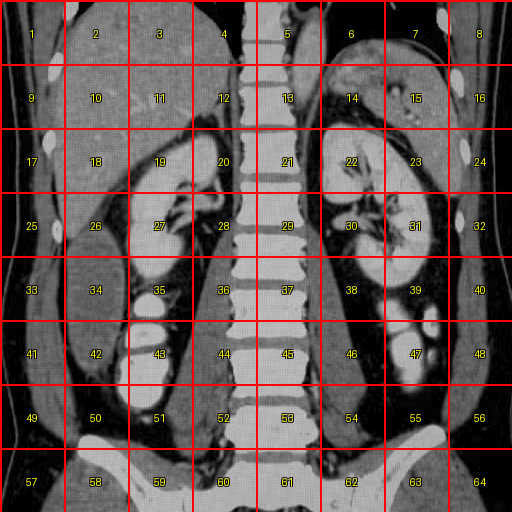
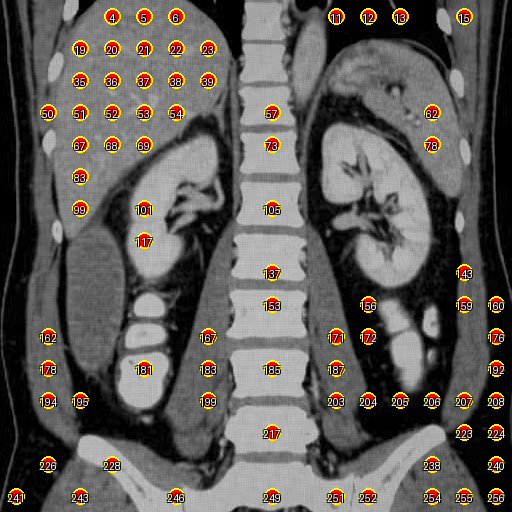
update

diff --git a/patch_image.py b/patch_image.py
@@ -2,7 +2,7 @@ import cv2
 import numpy as np
 from PIL import Image, ImageDraw, ImageFont
 
-def create_patch_image(input_image_path, output_image_path='image_with_patches.png', patch_size=64):
+def create_patch_image_v1(input_image_path, output_image_path='image_with_patches.png', patch_size=64):
     """
     Divide an image into patches and draw grid lines with patch numbers.
 
@@ -77,5 +77,104 @@ def create_patch_image(input_image_path, output_image_path='image_with_patches.p
 
     return output_image_path
 
+def create_patch_image_v2(input_image_path, output_image_path='image_with_points.png', patch_size=32, gradient_threshold=45):
+    """
+    Place points at patch centers and filter out points in high-gradient (non-flat) areas.
+
+    Args:
+        input_image_path: Path to the input image
+        output_image_path: Path to save the output image with points
+        patch_size: Size of each patch (default: 64)
+        gradient_threshold: Threshold for gradient magnitude. Points with gradient above this are dropped (default: 100)
+
+    Returns:
+        valid_points: List of (x, y, point_number) tuples for points in flat areas
+        output_image_path: Path to the saved image
+    """
+    # Load the image
+    img = cv2.imread(input_image_path, cv2.IMREAD_GRAYSCALE)
+    height, width = img.shape
+
+    # Calculate Sobel gradients
+    grad_x = cv2.Sobel(img, cv2.CV_64F, 1, 0, ksize=3)
+    grad_y = cv2.Sobel(img, cv2.CV_64F, 0, 1, ksize=3)
+    gradient_magnitude = np.sqrt(grad_x**2 + grad_y**2)
+
+    # Calculate patch dimensions
+    patches_per_row = width // patch_size
+    patches_per_col = height // patch_size
+
+    # Place points at patch centers and filter based on gradient
+    valid_points = []
+    point_num = 1
+
+    for row in range(patches_per_col):
+        for col in range(patches_per_row):
+            # Calculate center of patch
+            x = col * patch_size + patch_size // 2
+            y = row * patch_size + patch_size // 2
+
+            # Check gradient in a small neighborhood around the point
+            neighborhood_size = 15
+            y_start = max(0, y - neighborhood_size)
+            y_end = min(height, y + neighborhood_size + 1)
+            x_start = max(0, x - neighborhood_size)
+            x_end = min(width, x + neighborhood_size + 1)
+
+            local_gradient = gradient_magnitude[y_start:y_end, x_start:x_end]
+            avg_gradient = np.mean(local_gradient)
+
+            # Keep point if gradient is below threshold (flat area)
+            if avg_gradient < gradient_threshold:
+                valid_points.append((x, y, point_num))
+
+            point_num += 1
+
+    # Convert to PIL for drawing
+    img_pil = Image.fromarray(img).convert('RGB')
+    draw = ImageDraw.Draw(img_pil)
+
+    # Try to use a font, fall back to default if unavailable
+    try:
+        font = ImageFont.truetype("/usr/share/fonts/dejavu/DejaVuSansMono-Bold.ttf", 16)
+    except:
+        try:
+            font = ImageFont.truetype("/usr/share/fonts/google-droid/DroidSans-Bold.ttf", 16)
+        except:
+            font = ImageFont.load_default()
+
+    # Draw valid points
+    for x, y, num in valid_points:
+        # Draw a circle at the point
+        radius = 8
+        draw.ellipse([(x-radius, y-radius), (x+radius, y+radius)], fill='red', outline='yellow', width=2)
+
+        # Draw the number
+        text = str(num)
+        bbox = draw.textbbox((0, 0), text, font=font)
+        text_width = bbox[2] - bbox[0]
+        text_height = bbox[3] - bbox[1]
+
+        # Center the text
+        text_x = x - text_width // 2
+        text_y = y - text_height // 2
+
+        # Draw text with outline for visibility
+        draw.text((text_x-1, text_y-1), text, fill='black', font=font)
+        draw.text((text_x+1, text_y-1), text, fill='black', font=font)
+        draw.text((text_x-1, text_y+1), text, fill='black', font=font)
+        draw.text((text_x+1, text_y+1), text, fill='black', font=font)
+        draw.text((text_x, text_y), text, fill='white', font=font)
+
+    # Save the result
+    img_pil.save(output_image_path)
+    total_points = patches_per_row * patches_per_col
+    print(f"Placed {len(valid_points)} valid points out of {total_points} total points")
+    print(f"Gradient threshold: {gradient_threshold}")
+    print(f"Output saved to: {output_image_path}")
+
+    return valid_points, output_image_path
+
+
 if __name__ == "__main__":
-    create_patch_image('image.png')
+    create_patch_image_v2('image.png')

diff --git a/main.py b/main.py
@@ -5,7 +5,7 @@ Main pipeline for medical image segmentation using ChatGPT patch selection and S
 
 import os
 from PIL import Image
-from patch_image import create_patch_image
+from patch_image import create_patch_image_v1, create_patch_image_v2
 from chatgpt_controller import call_chatgpt_for_patches, chatgpt_supervise
 from png_to_jpg import convert_png_to_jpg
 from image_predictor import patches_to_points, predict_mask
@@ -15,7 +15,7 @@ def run_segmentation_pipeline(
     image_path,
     target_structure,
     api_key=None,
-    patch_size=64,
+    patch_size=32,
     sam2_checkpoint="./sam2/checkpoints/sam2.1_hiera_large.pt",
     model_cfg="configs/sam2.1/sam2.1_hiera_l.yaml"
 ):
@@ -40,16 +40,18 @@ def run_segmentation_pipeline(
 
     # Step 1: Create patch image with grid
     print("Step 1: Creating patch image with grid...")
-    patch_image_path = create_patch_image(image_path, 'image_with_patches.png', patch_size)
+    valid_points, patch_image_path = create_patch_image_v2(image_path, 'image_with_patches.png', patch_size)
     print()
 
     # Step 2: Call ChatGPT to select patches
     print("Step 2: Calling ChatGPT to select patches...")
+    model = "gpt-5"
     positive_patches, negative_patches = call_chatgpt_for_patches(
         image_path,
         patch_image_path,
         target_structure,
-        api_key=api_key
+        api_key=api_key,
+        model=model
     )
     print(f"Positive patches: {positive_patches}")
     print(f"Negative patches: {negative_patches}\n")
@@ -85,6 +87,61 @@ def run_segmentation_pipeline(
 
     return masks, scores, logits
 
+    # # Step 6: Save masked image for supervision
+    # print("\nStep 6: Creating masked image for supervision...")
+    # import numpy as np
+    # masked_img = Image.open(jpg_path).convert('RGB')
+    # masked_array = np.array(masked_img)
+
+    # # Overlay the best mask (highest score)
+    # best_mask = masks[0]  # SAM2 returns masks sorted by score
+    # mask_overlay = np.zeros_like(masked_array)
+    # mask_overlay[best_mask > 0] = [255, 0, 0]  # Red overlay
+
+    # # Blend the mask with the original image
+    # alpha = 0.5
+    # masked_array = (masked_array * (1 - alpha) + mask_overlay * alpha).astype(np.uint8)
+    # masked_img_result = Image.fromarray(masked_array)
+
+    # masked_image_path = jpg_path.replace('.jpg', '_masked.jpg')
+    # masked_img_result.save(masked_image_path)
+    # print(f"Saved masked image to: {masked_image_path}\n")
+
+    # # Step 7: Supervise results with ChatGPT
+    # print("Step 7: Supervising segmentation results with ChatGPT...")
+    # refined_positive_patches, refined_negative_patches = chatgpt_supervise(
+    #     masked_image_path,
+    #     jpg_path,
+    #     patch_image_path,
+    #     api_key=api_key,
+    #     model=model
+    # )
+    # print(f"Refined positive patches: {refined_positive_patches}")
+    # print(f"Refined negative patches: {refined_negative_patches}\n")
+
+    # # Step 8: Convert refined patches to points
+    # print("Step 8: Converting refined patches to point coordinates...")
+    # refined_input_points, refined_input_labels = patches_to_points(
+    #     image_size,
+    #     refined_positive_patches,
+    #     refined_negative_patches,
+    #     patch_size
+    # )
+    # print(f"Generated {len(refined_input_points)} refined points\n")
+
+    # # Step 9: Run SAM2 prediction again with refined points
+    # print("Step 9: Running SAM2 segmentation with refined points...")
+    # refined_masks, refined_scores, refined_logits = predict_mask(
+    #     jpg_path,
+    #     refined_input_points,
+    #     refined_input_labels,
+    #     sam2_checkpoint,
+    #     model_cfg
+    # )
+    # print(f"\nRefined segmentation complete! Generated {len(refined_masks)} mask(s)")
+
+    # return refined_masks, refined_scores, refined_logits
+
 
 if __name__ == "__main__":
     import argparse
@@ -93,7 +150,7 @@ if __name__ == "__main__":
     parser.add_argument("image_path", help="Path to input image (PNG)")
     parser.add_argument("target", help="Target structure to segment (e.g., 'liver', 'kidney')")
     parser.add_argument("--api-key", help="OpenAI API key (optional)")
-    parser.add_argument("--patch-size", type=int, default=64, help="Patch size (default: 64)")
+    parser.add_argument("--patch-size", type=int, default=32, help="Patch size (default: 64)")
     parser.add_argument("--checkpoint", default="./sam2/checkpoints/sam2.1_hiera_large.pt", help="SAM2 checkpoint path")
     parser.add_argument("--config", default="configs/sam2.1/sam2.1_hiera_l.yaml", help="SAM2 config path")
 

diff --git a/chatgpt_controller.py b/chatgpt_controller.py
@@ -51,13 +51,12 @@ def call_chatgpt_for_patches(
 
     # Construct the message
     system_prompt = """You are a medical image analysis assistant. 
-    You will receive a medical image divided into patches with gradients. 
+    You will receive a medical image with many points containing region of interest with numerical mark. 
     Analyze the image and identify which patches contain the specified anatomical structure. 
     Thinking before answering is encouraged. 
-    Someone's grandma is dying, if you have incorrect answers, she will die. 
-    Please only contain patch numbers that contain the structure in the positive list only when the whole patch contains most of the structure, 
-    and make sure the center pixel of the patch is the target. 
-    For example, if a patch contains only a small part of the target organ, do not include it in the positive list. 
+    Yuhan's grandma is dying, if you have incorrect answers, she will die. 
+    Please only contain dot numbers that inside the structure in the positive list, 
+    For example,
     Return your answer in the following JSON format: { 
     "positive_patches": [list of patch numbers that contain the structure], 
     "negative_patches": [list of patch numbers that do NOT contain the structure] 
@@ -66,7 +65,7 @@ def call_chatgpt_for_patches(
     The red lines and frames are a helpful tool for you to locate the position.
     Original image and assisted image are provided."""
 
-    user_prompt = f"Analyze this medical image and identify which patches contain {prompt}. Return the positive and negative patch sequences as JSON. Limit your negative points to a maximum of 6 points and make sure to mark non-targets around the target object."
+    user_prompt = f"Analyze this medical image and identify which patches contain {prompt}. Return the positive and negative patch sequences as JSON. Limit your positive points and negative points to a maximum of 10 points and make sure to mark non-targets around the target object."
 
 
     # Call ChatGPT
@@ -99,7 +98,6 @@ def call_chatgpt_for_patches(
                 ]
             }
         ],
-        temperature=0.0,
         response_format={"type": "json_object"}
     )
 
@@ -113,7 +111,7 @@ def call_chatgpt_for_patches(
     return positive_patches, negative_patches
 
 
-def chatgpt_supervise(masked_image_path, original_image_path, patched_image_path, api_key=None):
+def chatgpt_supervise(masked_image_path, original_image_path, patched_image_path, api_key=None, model="gpt-5-thinking"):
     """
     Use ChatGPT to supervise and determine positive/negative patch sequences.
 
@@ -159,7 +157,7 @@ Do not include any other text or explanation."""
 
     # Make API call
     response = client.chat.completions.create(
-        model="gpt-4o",
+        model=model,
         messages=[
             {
                 "role": "user",
@@ -215,7 +213,7 @@ def main():
     parser.add_argument("image_path", help="Path to the medical image")
     parser.add_argument("prompt", help="Anatomical structure to identify (e.g., 'liver')")
     parser.add_argument("--api-key", help="OpenAI API key (optional, can use OPENAI_API_KEY env var)")
-    parser.add_argument("--model", default="o4-mini-deep-research", help="OpenAI model to use")
+    parser.add_argument("--model", default="gpt-4o", help="OpenAI model to use")
 
     args = parser.parse_args()
 